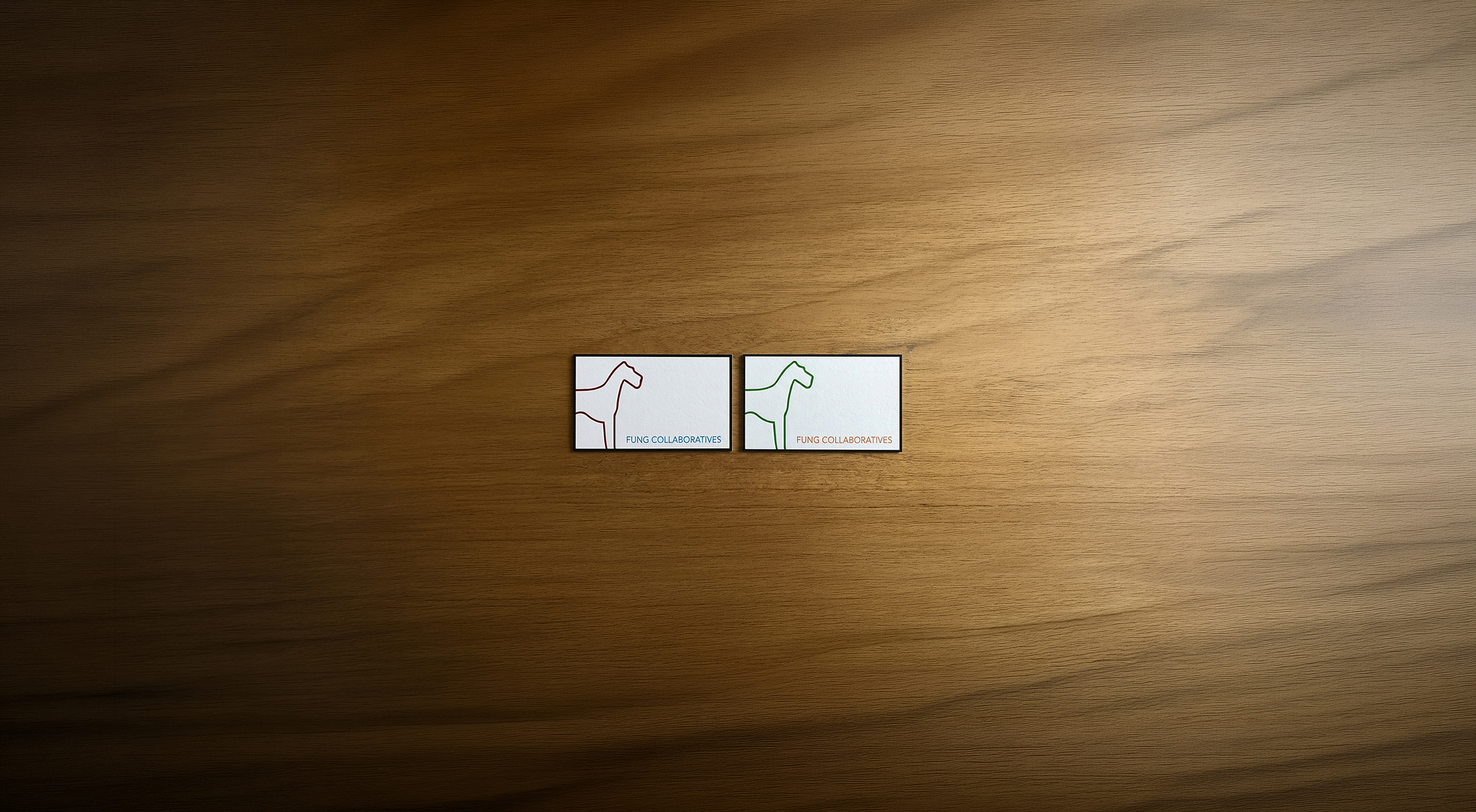
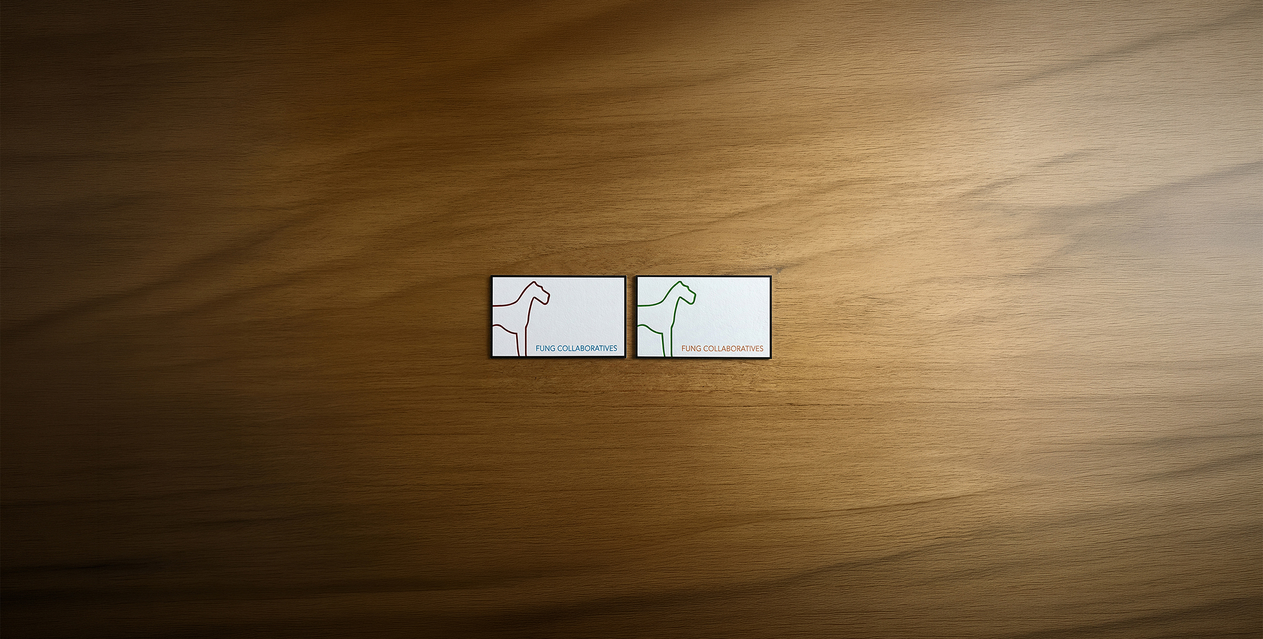
replaced image 2 on slider (officially)

Changed region(s): [[0.3438, 0.0, 1.0, 1.0], [0.4375, 0.7412, 0.4688, 0.7721], [0.4375, 0.0, 0.4688, 0.0309]]

diff --git a/index.html b/index.html
@@ -137,7 +137,7 @@
                   </div>
               </div>
       
-              <div class="slide" style="background-image: url('./assets/images/test_slider_image_2.jpg');">
+              <div class="slide" style="background-image: url('./assets/images/slider_image_2.jpg');">
                   <div class="caption">
                       <h3>BUSINESS CARDS</h3>
                       <span>FUNG COLLABORATIVES</span>
